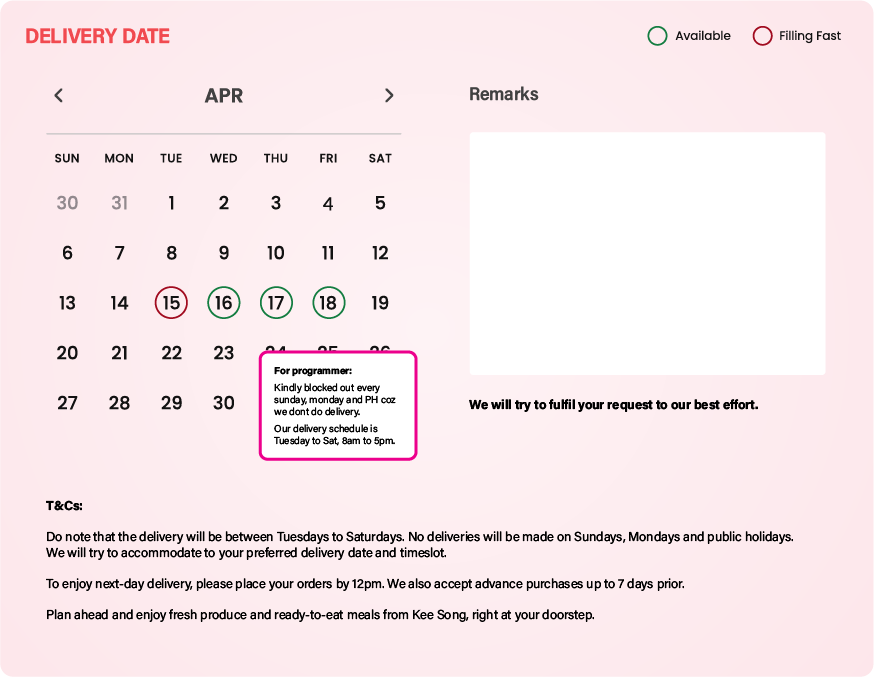
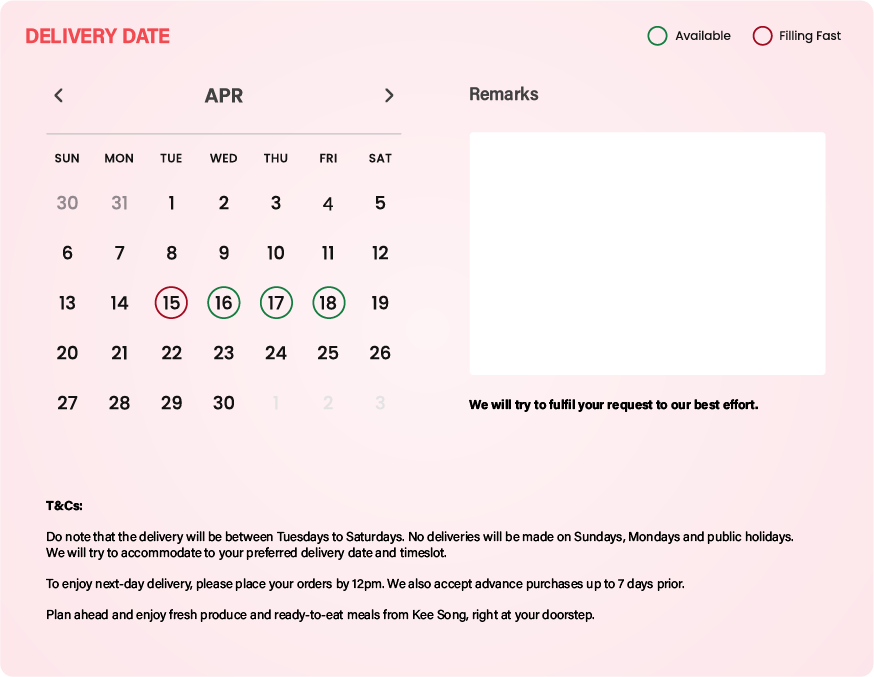
pages and images updated

Changed region(s): [[0.278, 0.4963, 0.4943, 0.6824]]

diff --git a/pages/brand-partner-page.html b/pages/brand-partner-page.html
@@ -14,7 +14,7 @@
     <!-- styles -->
     <!-- favicon -->
     <link rel="icon" type="image/png" href="../assets/images/keesong-favicon.png">
-    <title>Demo-Page</title>
+    <title>Brand Partners</title>
 </head>
 
 <body>

diff --git a/pages/checkout-page.html b/pages/checkout-page.html
@@ -14,7 +14,7 @@
     <!-- styles -->
     <!-- favicon -->
     <link rel="icon" type="image/png" href="../assets/images/keesong-favicon.png">
-    <title>Your Basket</title>
+    <title>Checkout</title>
 </head>
 
 <body>

diff --git a/pages/contactus-page.html b/pages/contactus-page.html
@@ -14,7 +14,7 @@
     <!-- styles -->
     <!-- favicon -->
     <link rel="icon" type="image/png" href="../assets/images/keesong-favicon.png">
-    <title>Demo-Page</title>
+    <title>Contact Us</title>
 </head>
 
 <body>
